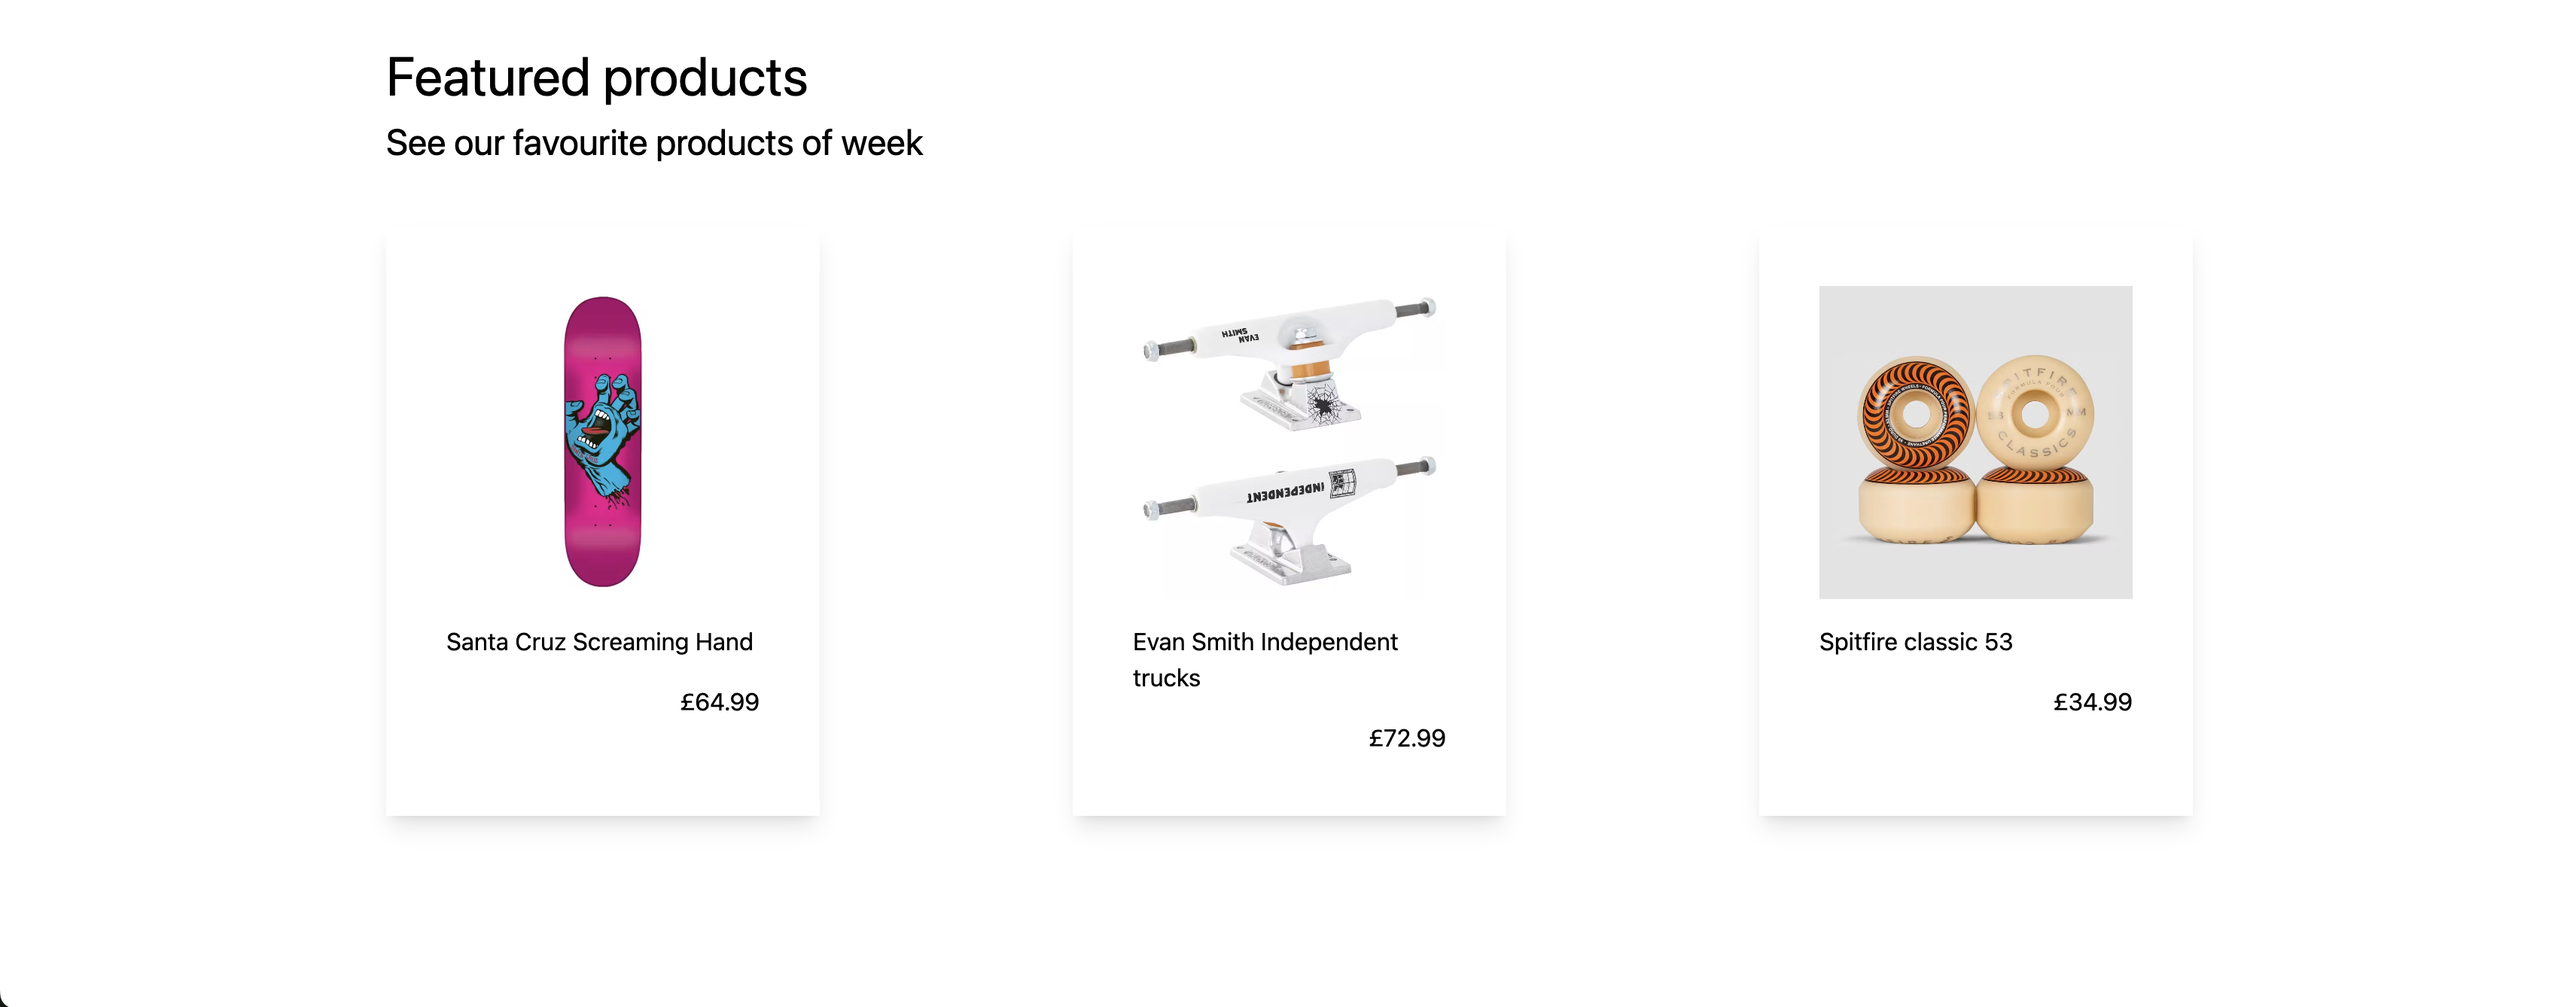
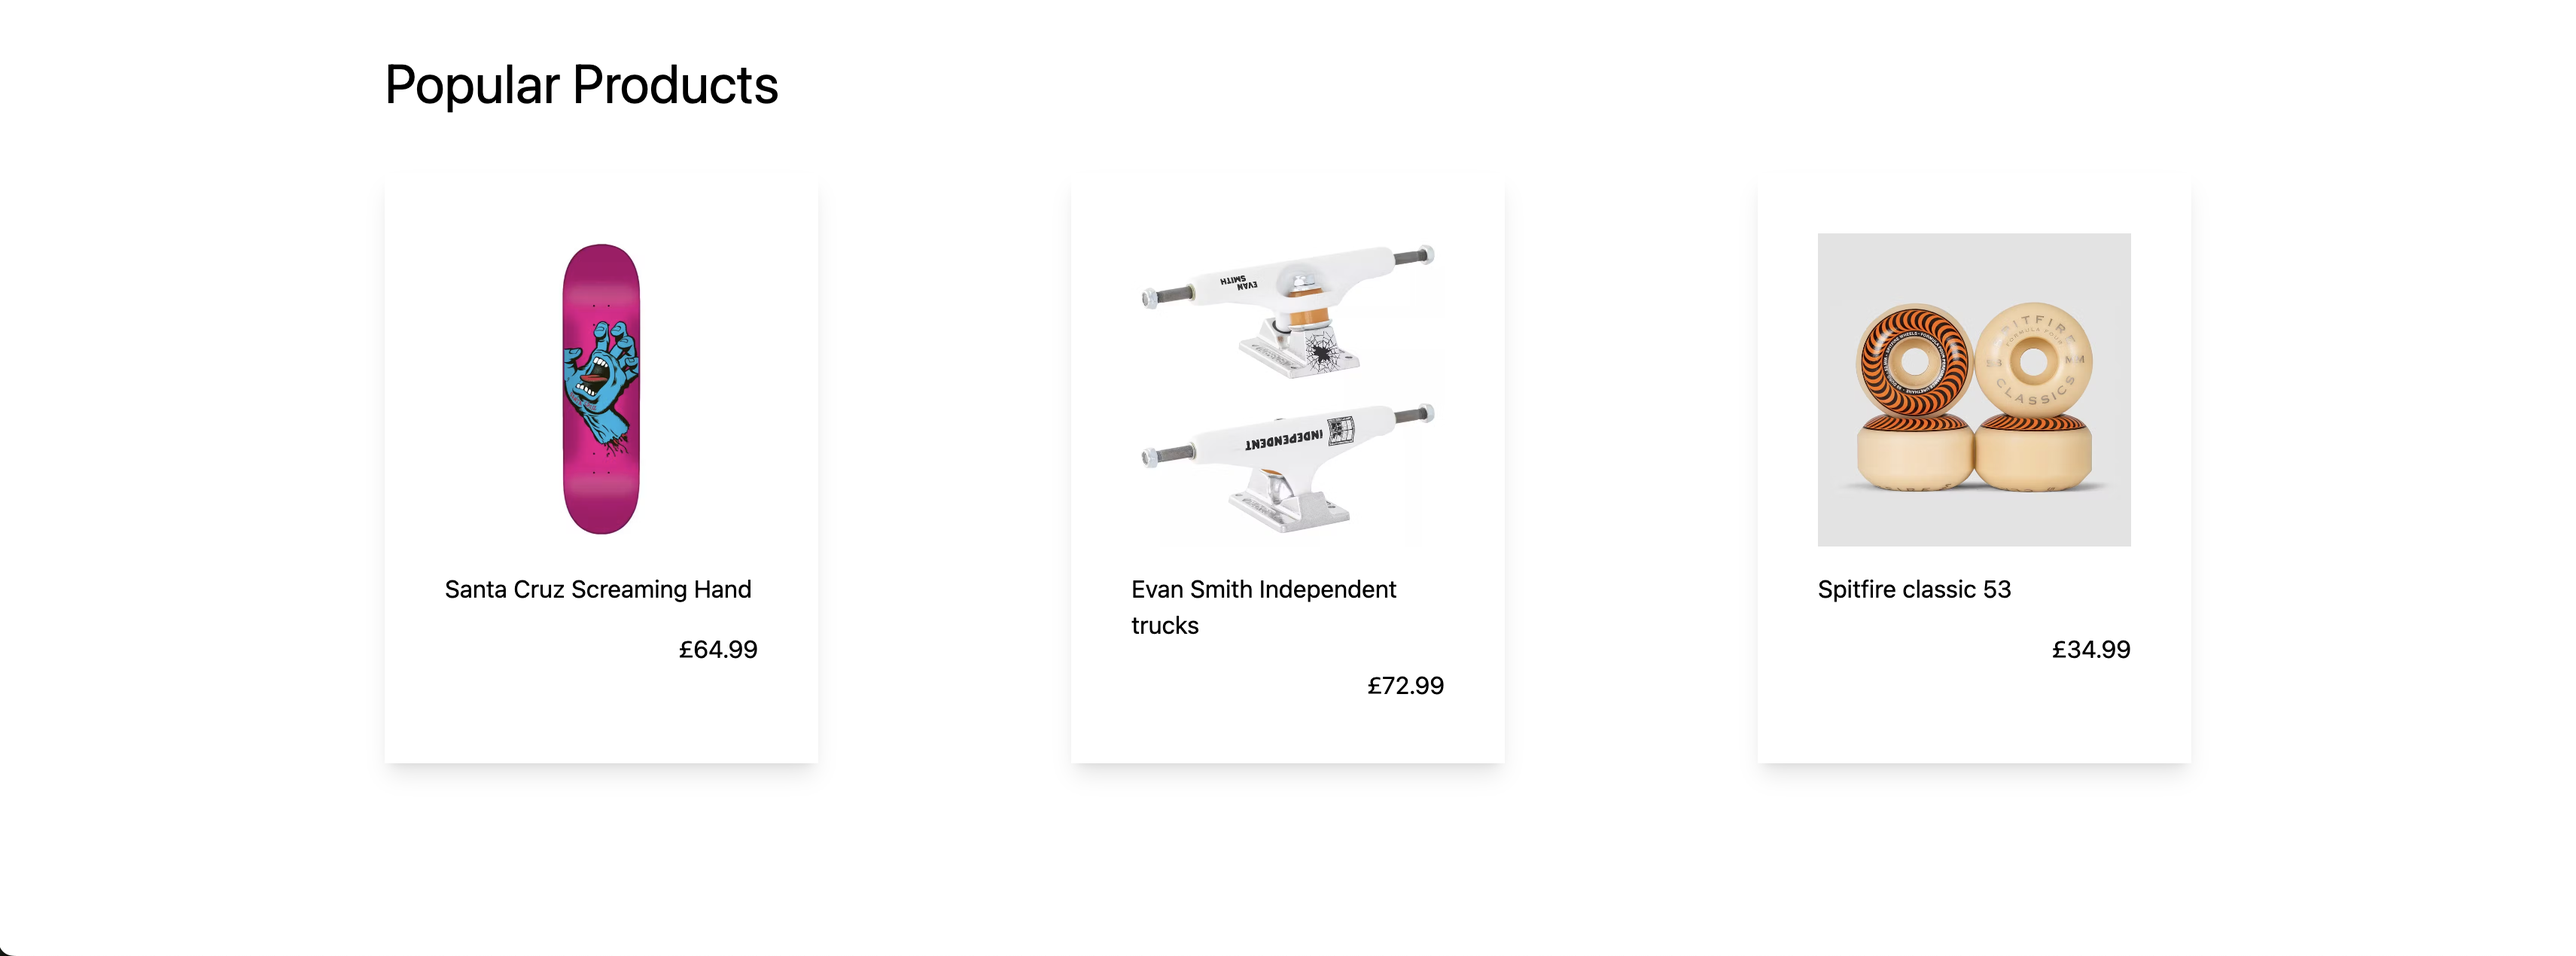
feat: add variation of product list slice

diff --git a/prismicio-types.d.ts b/prismicio-types.d.ts
@@ -316,6 +316,21 @@ export interface ProductListSliceDefaultPrimaryProductsItem {
 }
 
 /**
+ * Item in *ProductListSection → Highlighted → Primary → Products*
+ */
+export interface ProductListSliceHighlightedPrimaryProductsItem {
+  /**
+   * product field in *ProductListSection → Highlighted → Primary → Products*
+   *
+   * - **Field Type**: Content Relationship
+   * - **Placeholder**: *None*
+   * - **API ID Path**: product_list.highlighted.primary.products[].product
+   * - **Documentation**: https://prismic.io/docs/field#link-content-relationship
+   */
+  product: prismic.ContentRelationshipField<"product">;
+}
+
+/**
  * Primary content in *ProductListSection → Default → Primary*
  */
 export interface ProductListSliceDefaultPrimary {
@@ -328,16 +343,6 @@ export interface ProductListSliceDefaultPrimary {
    * - **Documentation**: https://prismic.io/docs/field#key-text
    */
   title: prismic.KeyTextField;
-
-  /**
-   * Subtitle field in *ProductListSection → Default → Primary*
-   *
-   * - **Field Type**: Text
-   * - **Placeholder**: *None*
-   * - **API ID Path**: product_list.default.primary.subtitle
-   * - **Documentation**: https://prismic.io/docs/field#key-text
-   */
-  subtitle: prismic.KeyTextField;
 
   /**
    * Products field in *ProductListSection → Default → Primary*
@@ -366,9 +371,61 @@ export type ProductListSliceDefault = prismic.SharedSliceVariation<
 >;
 
 /**
+ * Primary content in *ProductListSection → Highlighted → Primary*
+ */
+export interface ProductListSliceHighlightedPrimary {
+  /**
+   * Title field in *ProductListSection → Highlighted → Primary*
+   *
+   * - **Field Type**: Text
+   * - **Placeholder**: *None*
+   * - **API ID Path**: product_list.highlighted.primary.title
+   * - **Documentation**: https://prismic.io/docs/field#key-text
+   */
+  title: prismic.KeyTextField;
+
+  /**
+   * Subtitle field in *ProductListSection → Highlighted → Primary*
+   *
+   * - **Field Type**: Text
+   * - **Placeholder**: *None*
+   * - **API ID Path**: product_list.highlighted.primary.subtitle
+   * - **Documentation**: https://prismic.io/docs/field#key-text
+   */
+  subtitle: prismic.KeyTextField;
+
+  /**
+   * Products field in *ProductListSection → Highlighted → Primary*
+   *
+   * - **Field Type**: Group
+   * - **Placeholder**: *None*
+   * - **API ID Path**: product_list.highlighted.primary.products[]
+   * - **Documentation**: https://prismic.io/docs/field#group
+   */
+  products: prismic.GroupField<
+    Simplify<ProductListSliceHighlightedPrimaryProductsItem>
+  >;
+}
+
+/**
+ * Highlighted variation for ProductListSection Slice
+ *
+ * - **API ID**: `highlighted`
+ * - **Description**: Default
+ * - **Documentation**: https://prismic.io/docs/slice
+ */
+export type ProductListSliceHighlighted = prismic.SharedSliceVariation<
+  "highlighted",
+  Simplify<ProductListSliceHighlightedPrimary>,
+  never
+>;
+
+/**
  * Slice variation for *ProductListSection*
  */
-type ProductListSliceVariation = ProductListSliceDefault;
+type ProductListSliceVariation =
+  | ProductListSliceDefault
+  | ProductListSliceHighlighted;
 
 /**
  * ProductListSection Shared Slice
@@ -411,8 +468,11 @@ declare module "@prismicio/client" {
       ProductListSlice,
       ProductListSliceDefaultPrimaryProductsItem,
       ProductListSliceDefaultPrimary,
+      ProductListSliceHighlightedPrimaryProductsItem,
+      ProductListSliceHighlightedPrimary,
       ProductListSliceVariation,
       ProductListSliceDefault,
+      ProductListSliceHighlighted,
     };
   }
 }

diff --git a/src/slices/ProductListSection/index.tsx b/src/slices/ProductListSection/index.tsx
@@ -49,11 +49,11 @@ const ProductList = async ({ slice }: ProductListProps) => {
     <section
       data-slice-type={slice.slice_type}
       data-slice-variation={slice.variation}
-      className="px-10 pb-32"
+      className={`px-10 pb-32 pt-10 ${slice.variation === "highlighted" && "bg-gray-100"}`}
     >
       <div className="max-w-[1200px] mx-auto">
         <h2 className="text-4xl">{slice.primary.title}</h2>
-        {slice.primary.subtitle && (
+        {slice.variation === "highlighted" && slice.primary.subtitle && (
           <p className="text-2xl my-2">{slice.primary.subtitle}</p>
         )}
         <ul className="flex gap-10 justify-between mt-10">

diff --git a/src/components/ProductCard.tsx b/src/components/ProductCard.tsx
@@ -11,7 +11,7 @@ interface ProductCardProps {
 
 const ProductCard = ({ image, title, price, uid }: ProductCardProps) => {
   return (
-    <li className="max-w-72 p-10 shadow-lg hover:scale-105 transition-transform">
+    <li className="max-w-72 p-10 shadow-lg hover:scale-105 transition-transform bg-white">
       <Link href={`/product/${uid}`}>
         <PrismicNextImage
           // className="w-96 h-96 object-cover m-auto"
